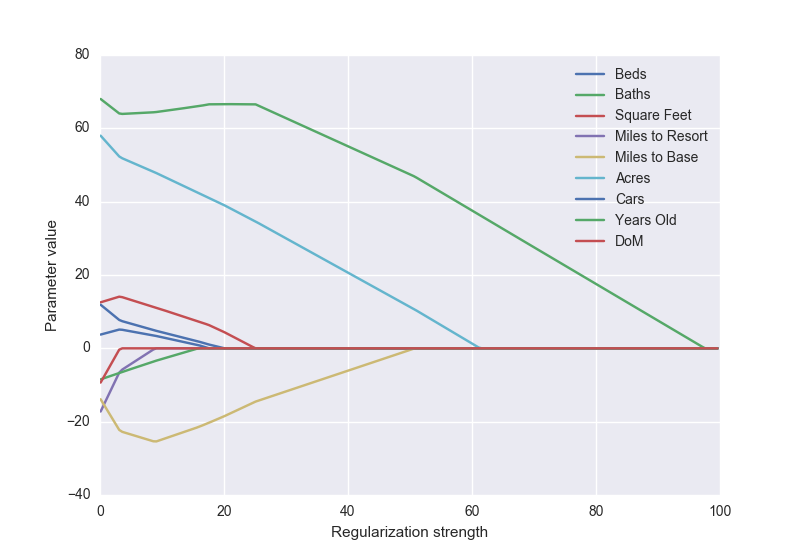
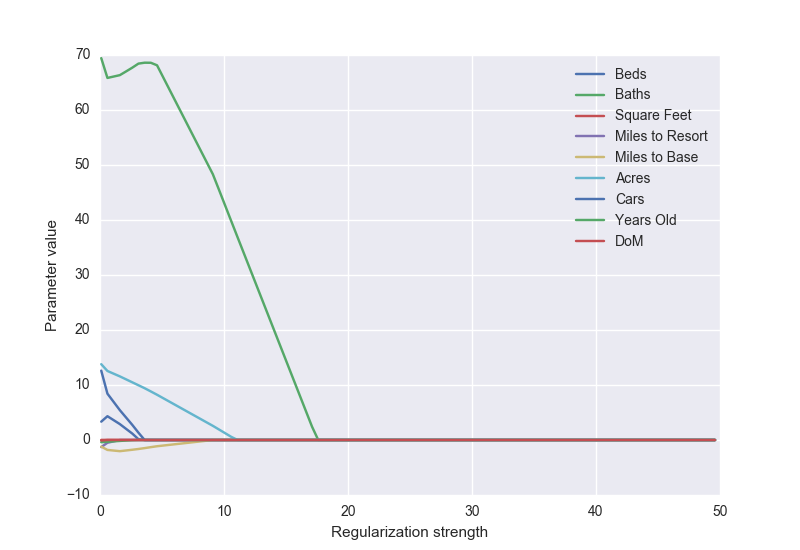
Urochka hw2 update

diff --git a/Urochka/hw2/main.py b/Urochka/hw2/main.py
@@ -4,6 +4,7 @@ import pandas as pd
 from sklearn.linear_model import Lasso, Ridge
 from sklearn.model_selection import train_test_split
 from sklearn.preprocessing import StandardScaler
+from sklearn.metrics import mean_squared_error
 import numpy as np
 from matplotlib import pyplot as plt
 
@@ -26,43 +27,65 @@ target = df['Price']
 X = df[cols]
 X_train, X_test, y_train, y_test = train_test_split(X, target, test_size=0.3, random_state=42)
 scaler = StandardScaler()
-X_train = scaler.fit_transform(X_train)
-X_test = scaler.transform(X_test)
 
-regularization = np.arange(0.1, 100, 0.5)
+baseline_model = np.mean(y_train)
+
+regularization_l = np.arange(0.1, 50, 0.5)
+regularization_r = np.arange(0.1, 230, 1)
 ridge_rss_train = []
 ridge_rss_test = []
 lasso_rss_train = []
 lasso_rss_test = []
 lasso_params = []
 ridge_params = []
-for l in regularization:
-    reg_lasso = Lasso(alpha=l)
-    reg_ridge = Ridge(alpha=l)
+
+def get_RSS(y_true, y_pred):
+	return np.sum((y_true - y_pred)**2)
+
+for l in regularization_l:
+    reg_lasso = Lasso(alpha=l, normalize=True)
     reg_lasso.fit(X_train, y_train)
-    reg_ridge.fit(X_train, y_train)
-    ridge_rss_train.append(np.sum((y_train-reg_ridge.predict(X_train))**2))
-    ridge_rss_test.append(np.sum((y_test-reg_ridge.predict(X_test))**2))
-    lasso_rss_train.append(np.sum((y_train-reg_lasso.predict(X_train))**2))
-    lasso_rss_test.append(np.sum((y_test-reg_lasso.predict(X_test))**2))
+    lasso_rss_train.append(mean_squared_error(y_train, reg_lasso.predict(X_train)))
+    lasso_rss_test.append(mean_squared_error(y_test, reg_lasso.predict(X_test)))
     lasso_params.append(reg_lasso.coef_)
+
+for l in regularization_r:
+    reg_ridge = Ridge(alpha=l, normalize=True)
+    reg_ridge.fit(X_train, y_train)
+    ridge_rss_train.append(mean_squared_error(y_train, reg_ridge.predict(X_train)))
+    ridge_rss_test.append(mean_squared_error(y_test, reg_ridge.predict(X_test)))
     ridge_params.append(reg_ridge.coef_)
 
+v_rss_t_base = np.repeat(baseline_model, y_train.size)
+v_rss_te_base = np.repeat(baseline_model, y_test.size)
+baseline_RSS_train = mean_squared_error(y_train, v_rss_t_base)
+baseline_RSS_test = mean_squared_error(y_test, v_rss_te_base)
+
 plt.close()
-plt.plot(regularization, ridge_rss_train, 'r', label='ridge train')
-plt.plot(regularization, ridge_rss_test, 'g', label='ridge test')
-plt.plot(regularization, lasso_rss_train, 'b', label='lasso train')
-plt.plot(regularization, lasso_rss_test, 'magenta', label='lasso test')
+plt.plot(regularization_r, ridge_rss_train, 'r', label='ridge train')
+plt.plot(regularization_r, ridge_rss_test, 'g', label='ridge test')
+plt.plot(regularization_r, np.repeat(baseline_RSS_train, regularization_r.size), 'magenta', label='baseline train')
+plt.plot(regularization_r, np.repeat(baseline_RSS_test, regularization_r.size), 'cyan', label='baseline test')
 plt.xlabel('Regularization strength')
-plt.ylabel('Residual sum of squares')
+plt.ylabel('Mean squared error')
 plt.legend(loc='best')
-plt.savefig('rss.png')
+plt.savefig('rss_ridge.png')
+
+plt.close()
+plt.plot(regularization_l, lasso_rss_train, 'r', label='lasso train')
+plt.plot(regularization_l, lasso_rss_test, 'g', label='lasso test')
+plt.plot(regularization_l, np.repeat(baseline_RSS_train, regularization_l.size), 'magenta', label='baseline train')
+plt.plot(regularization_l, np.repeat(baseline_RSS_test, regularization_l.size), 'cyan', label='baseline test')
+plt.xlabel('Regularization strength')
+plt.ylabel('Mean squared error')
+plt.legend(loc='best')
+plt.savefig('rss_lasso.png')
 
 plt.close()
 lasso_params = np.array(lasso_params).T
 ridge_params = np.array(ridge_params).T
 for lp, col in zip(lasso_params, cols):
-    plt.plot(regularization, lp, label=col)
+    plt.plot(regularization_l, lp, label=col)
 
 plt.xlabel('Regularization strength')
 plt.ylabel('Parameter value')
@@ -71,9 +94,10 @@ plt.savefig('Lasso_params.png')
 
 plt.close()
 for rp, col in zip(ridge_params, cols):
-    plt.plot(regularization, rp, label=col)
+    plt.plot(regularization_r, rp, label=col)
 
 plt.xlabel('Regularization strength')
 plt.ylabel('Parameter value')
 plt.legend(loc='best')
 plt.savefig('Ridge_params.png')
+
